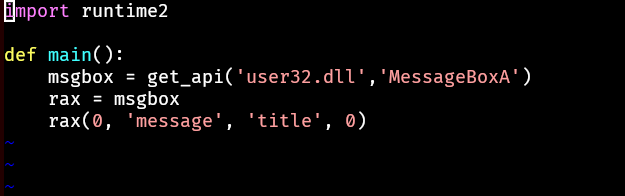
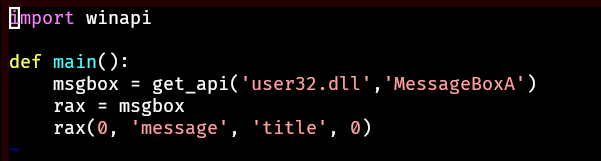
runtime2 renamed to winapi

diff --git a/examples/encrypt.py b/examples/encrypt.py
@@ -1,0 +1,17 @@
+def encrypt(d, l, key):
+    buff = [0,0,0,0,0,0,0,0,0,0,0,0,0,0,0,0,0,0,0,0]
+    rbx = key
+    for i in range(l):
+        al = d[i]
+        al ^= bl
+        buff[i] = al
+    return buff
+
+
+def main():
+    d = 'decrypted text'
+    l = len(d)
+    key = 0x32
+    e = encrypt(d, l, key)
+    asm(' int 3')
+    return e

diff --git a/examples/windows_api_usage.py b/examples/windows_api_usage.py
@@ -1,4 +1,4 @@
-import runtime2
+import winapi
 
 def main():
     msgbox = get_api('user32.dll','MessageBoxA')

diff --git a/DOCUMENTAITON.md b/DOCUMENTAITON.md
@@ -166,3 +166,125 @@ def main():
     r = sum(100, 200)
     return r
 ```
+
+### String parse
+
+```python
+def get(s, pos):
+    return s[pos]
+
+def main():
+    c = get('my string', 4)
+    s = '1234'
+    rax = 0x41
+    s[3] = al
+    return 0
+```
+
+### Raw assembly
+
+```python
+
+def trap():
+    asm('  int 3')
+
+def main():
+    rax = 3
+    asm('  cpuid')
+    trap()
+    return 0
+```
+
+
+### Indirect function call
+
+for calling pointers ie winapi calls
+
+```python
+def main():
+    ptr = 0x12123123
+    rax = ptr
+    r = rax(1)
+    return 0
+```
+
+
+### Importing other files
+
+pynasm look for imported files in current folder
+
+```python
+import helper
+
+def main():
+    function_on_helper()
+```
+
+This compile both .py files in one .nasm file
+
+### Xor operation
+
+Xors to remove a register:
+
+```python
+def main():
+    rax = rbx = rcx = 0
+```
+
+Xor logic operation to encode/encrypt or whatever
+
+```python
+def main():
+    a = 0x3fa498
+    b = 0x234234
+    a ^= b
+```
+
+```python
+def encrypt(d, l, key):
+    buff = [0,0,0,0,0,0,0,0,0,0,0,0,0,0,0,0,0,0,0,0]
+    rbx = key
+    for i in range(l):
+        al = d[i]
+        al ^= bl
+        buff[i] = al
+    return buff
+
+
+def main():
+    d = 'decrypted text'
+    l = len(d)
+    key = 0x32
+    e = encrypt(d, l, key)
+    return e
+```
+
+scemu emulator:
+```assembly
+202 0x3c00cf: mov   rax,[rbp-20h]
+=>
+203 0x3c00d3: leave
+=>r rax
+	rax: 0x3c002f 3932207 'VWQ@KBFWV' (code)
+```
+
+len() has to be done from same function where the string was defined, but you can implement your own length() function that checks the 0x00 at the end of the string.
+
+
+### Allocator
+
+don't expect an allocator on a PIC code, use winapi VirtualAlloc importing winapi
+
+```python
+import winapi
+
+def main():
+    valloc = get_api('kernel32.dll','VirtuallAlloc')
+    # ...
+    rax = valloc
+    size = 1024
+    rax(0, size, 0x00001000, 0x40)
+    return 0
+```
+
+
